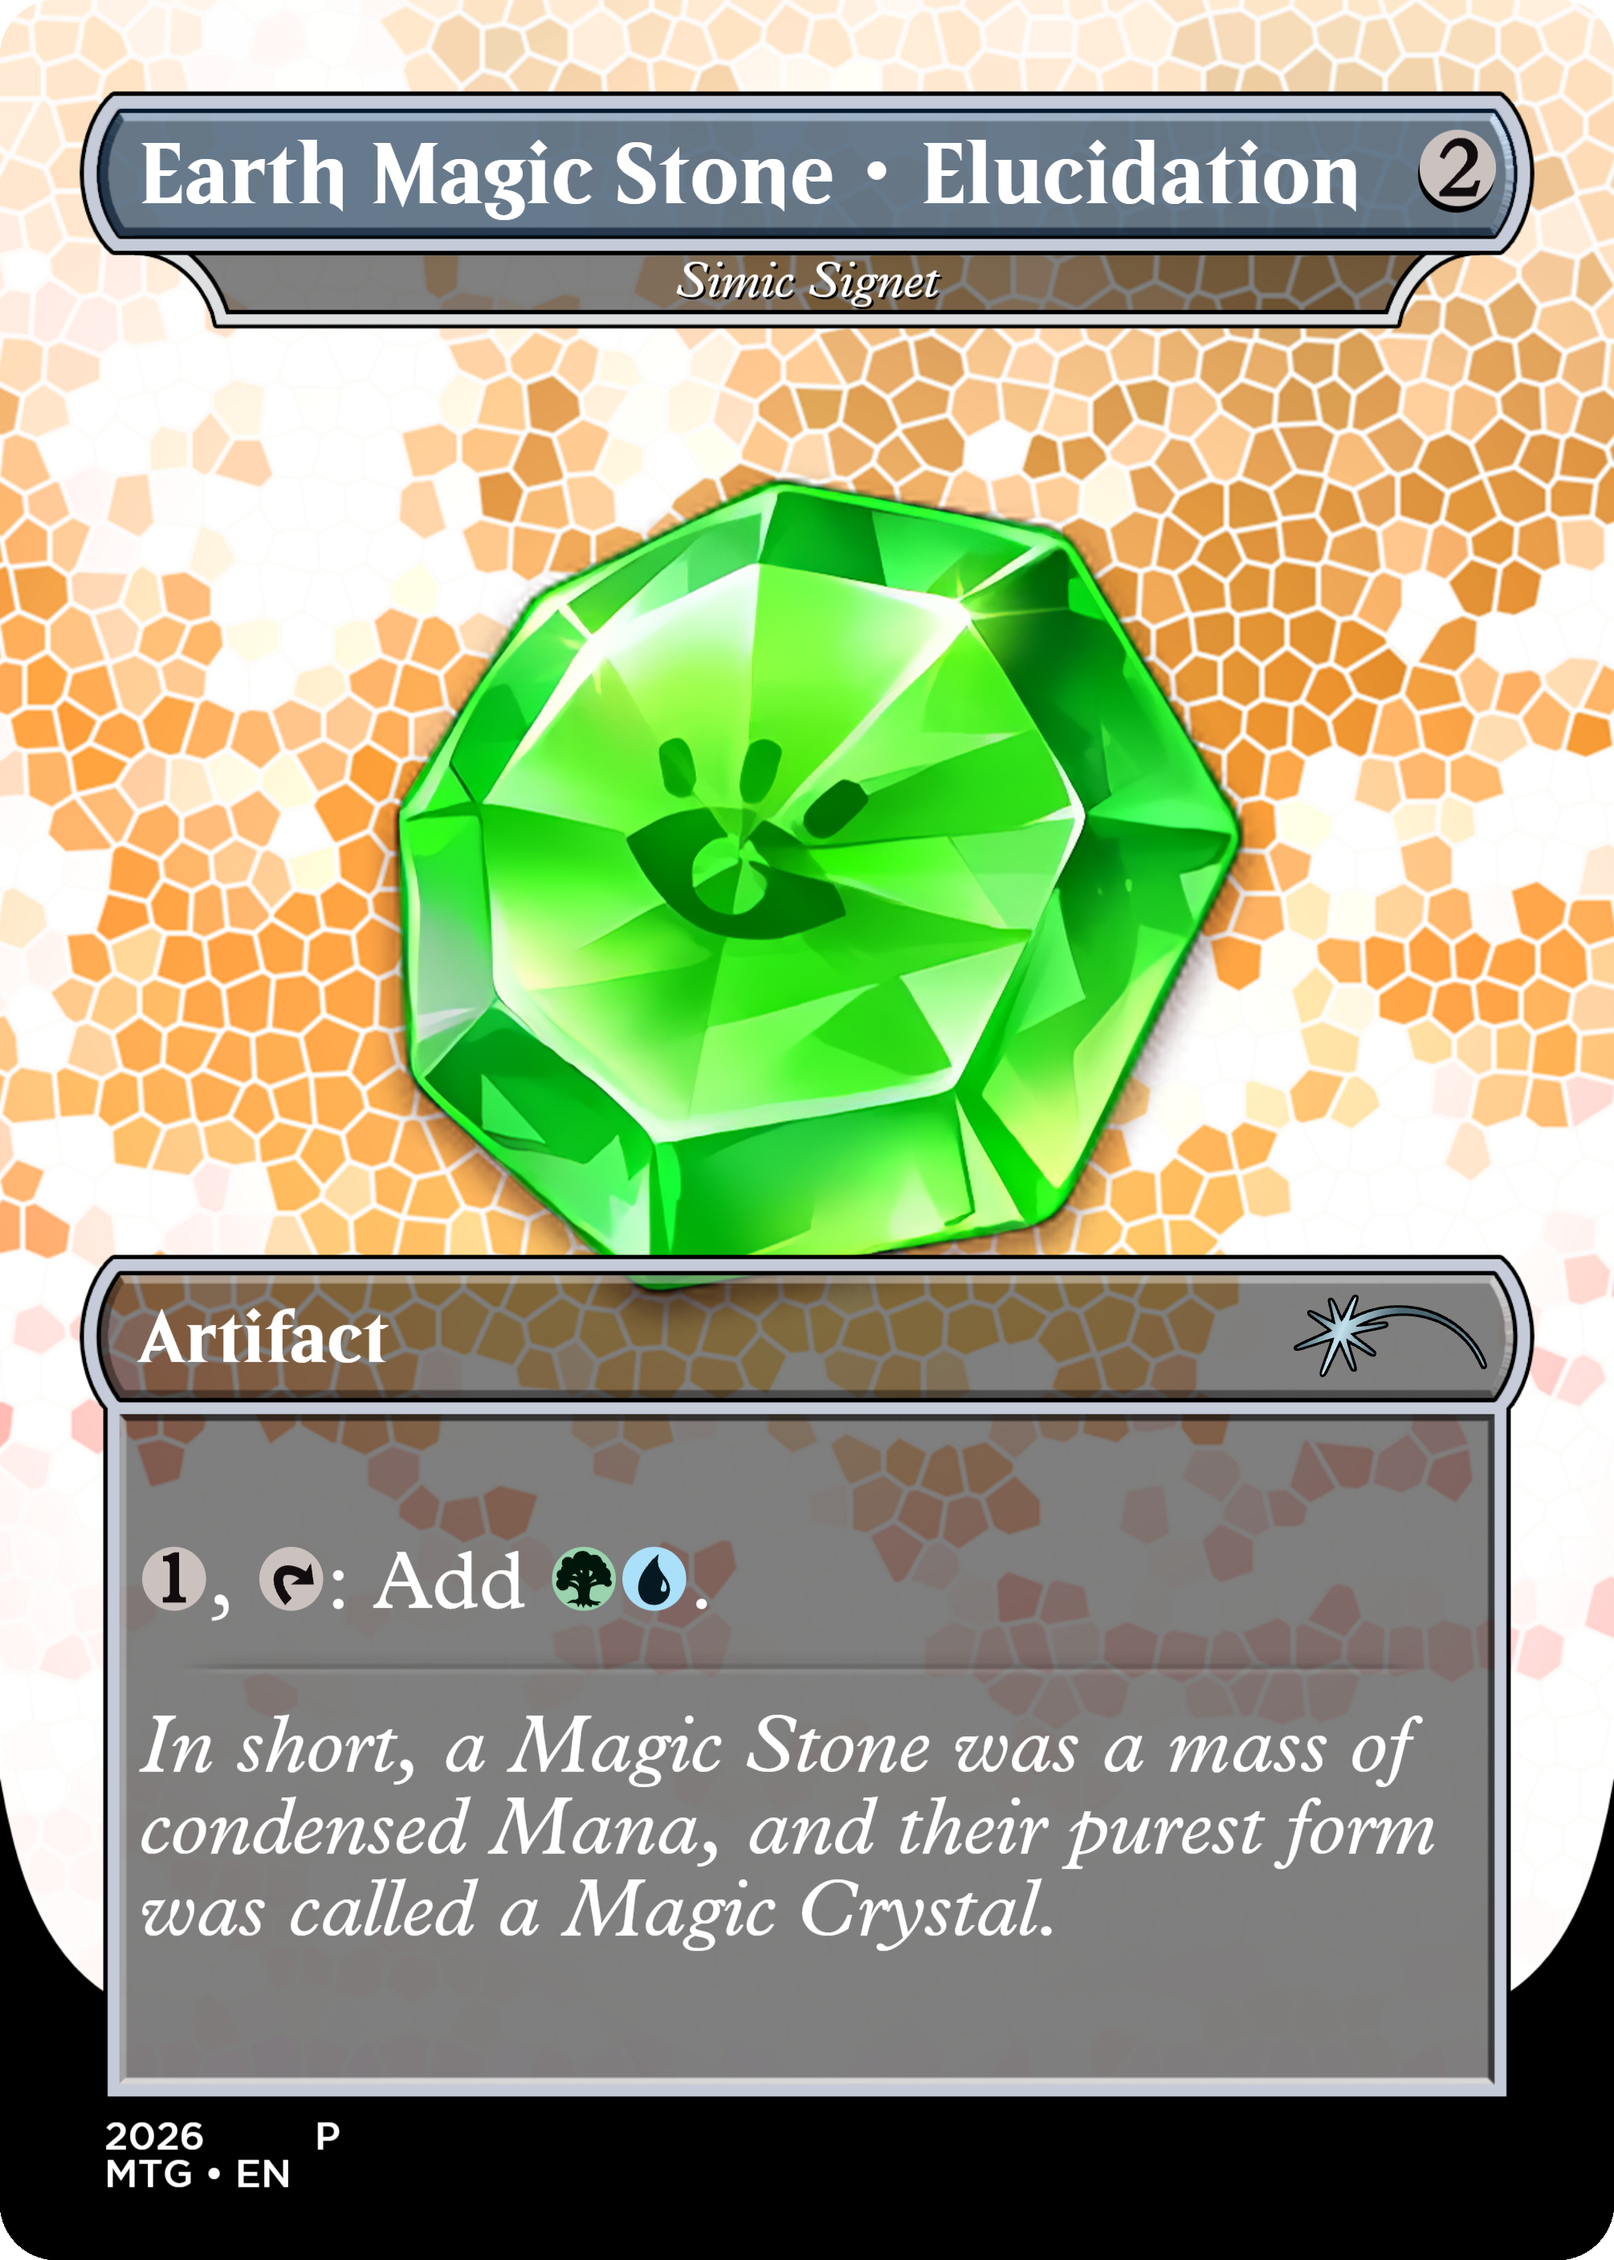
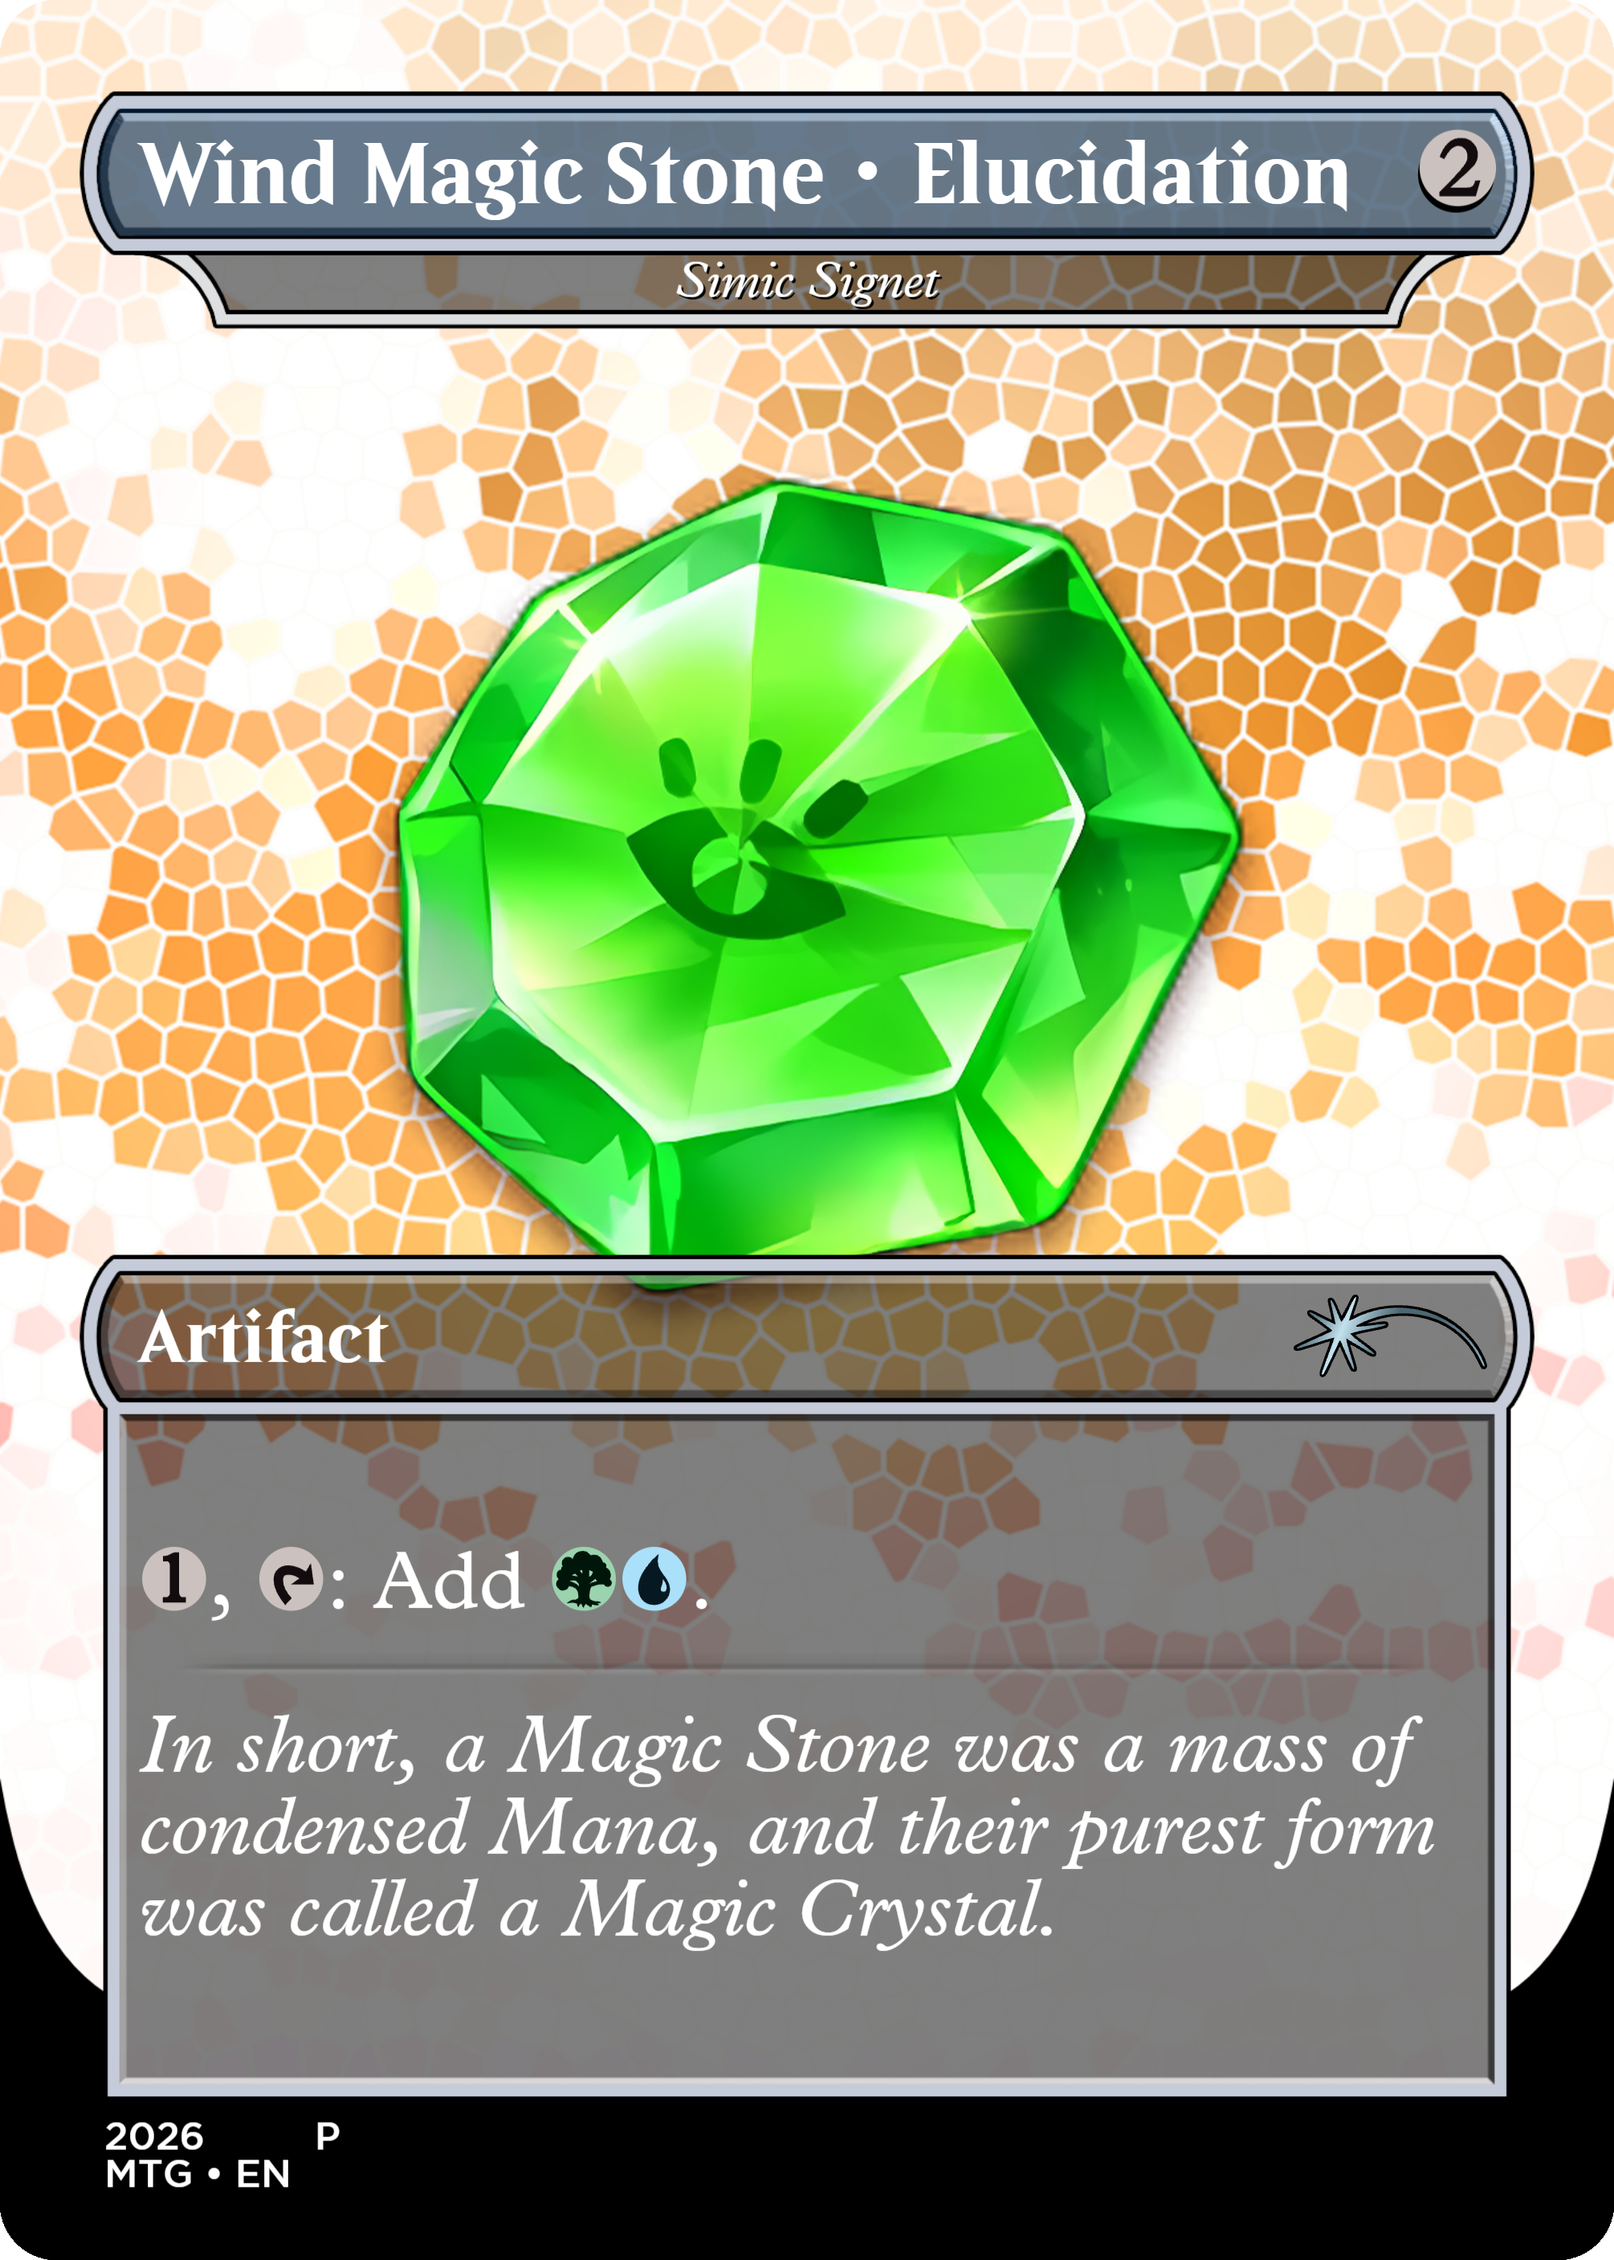
Add files via upload

Changed region(s): [[0.0925, 0.0618, 0.8637, 0.0928]]

diff --git a/README.md b/README.md
@@ -2,7 +2,7 @@
 
 This repo contains Custom Cards for my MTG Pod. Running the BAT file grabs the XML file from this repository and places it in your Local AppData folder. It also (should) close Cockatrice if it's running so the custom set can load. All alternate card arts are contained under the set "CLM (Certified Lechuga Moment)".
 
-Currently at over `90` cards. Sorted alphabetically by series, with the contents of each series sorted by release.
+Currently at over `100` cards. Sorted alphabetically by series, with the contents of each series sorted by release.
 
 > ⚠ **WARNING:** THE AUTOMATED BAT FILE ONLY WORKS WITH <ins>NON-PORTABLE</ins> INSTALLATIONS! If you have a Portable Build of Cockatrice, you'll need to navigate into `data/customsets` and manually drop the XML file in.
 
@@ -59,7 +59,7 @@ Currently at over `90` cards. Sorted alphabetically by series, with the contents
 * Prismatic Lens = Mysterious Magnetism (Honkai: Star Rail)
 * Talisman of Hierarchy = Laurel Crown of Planar Shifts (Honkai: Star Rail)
 * Lightning Greaves = Shattered Star Bait (Honkai: Star Rail)
-### Re:Zero `9`
+### Re:Zero `10`
 * Sol Ring = Dream Arts (Re:Zero)
 * Thought Vessel = Corridor of Memories (Re:Zero)
 * Five Hundred Year Diary = Four Hundred Year Wait (Re:Zero)
@@ -69,7 +69,8 @@ Currently at over `90` cards. Sorted alphabetically by series, with the contents
 * Inspiring Statuary = House Mathers’s Workshop (Re:Zero)
 * Fellwar Stone = Wind Magic Stone ・ Breeze of Suspicion (Re:Zero)
 * Azorius Signet = Water Magic Stone ・ Encouragement (Re:Zero)
-* Simic Signet = Earth Magic Stone ・ Elucidation (Re:Zero)
+* Simic Signet = Wind Magic Stone ・ Elucidation (Re:Zero)
+* Selesnya Signet = Earth Magic Stone ・ Accumulation (Re:Zero)
 ### Touhou Project `6`
 * Sol Ring = Yin-Yang Orbs (Touhou Project)
 * The One Ring = Miracle Mallet (Touhou Project)
